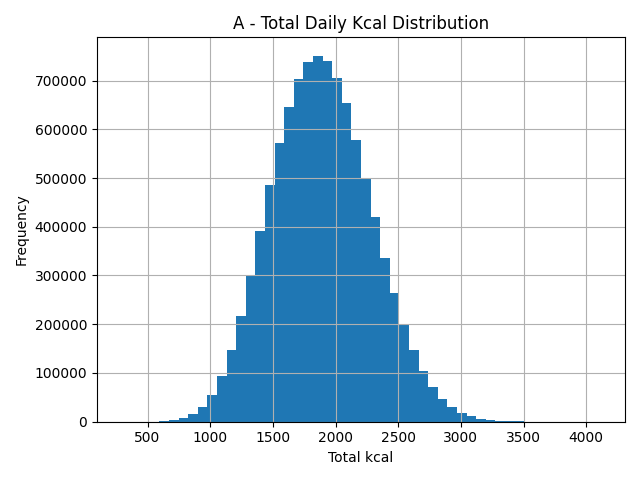
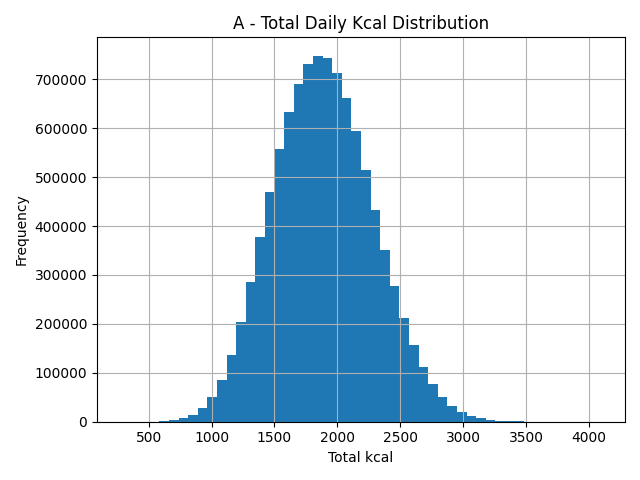
Daily commit

diff --git a/backend/app/management/commands/vasilis_vu_v1.py b/backend/app/management/commands/vasilis_vu_v1.py
@@ -24,7 +24,7 @@ class Command(BaseCommand):
 
     def _filtering(self, country):
         meals = Meal.objects.filter(Country__in=country).values_list(
-            "Type", "Total_Energy", "Total_Protein", "Total_Fat", "Total_Carbs",
+            "Type", "Total_Energy", "Total_Protein", "Total_Fat", "Total_Carbs", "id"
         )
 
         dtype = np.dtype([
@@ -33,6 +33,7 @@ class Command(BaseCommand):
             ('Total_Protein', 'f4'),
             ('Total_Fat', 'f4'),
             ('Total_Carbs', 'f4'),
+            ('id', 'i4'),
         ])
         return np.array(list(meals), dtype=dtype)
 
@@ -44,15 +45,9 @@ class Command(BaseCommand):
 
         return [breakfast, snack, lunch, snack, dinner]
 
-    def normal_distr(self):
-        # Set the mean and standard deviation for calories
-        mean = 1700
-        std = 1000/3
-
-        # Generate random calories for each user
-        calories = np.random.normal(loc=mean, scale=std, size=5000)
-
-        return calories
+    def normal_distr(self, mean, std):
+        # Generate and return random calories for each user based in normal distribution.
+        return np.random.normal(loc=mean, scale=std, size=5000)
 
     def _generate_combinations(self, meal_groups):
         group_lens = [len(group) for group in meal_groups]
@@ -133,7 +128,7 @@ class Command(BaseCommand):
 
     def batch_distance(self, score_matrix):
         # Vectorized weighted Euclidean distance
-        weights = np.array([self.NUTRITION_WEIGHTS.get(f, 0.0) for f in field_list], dtype=np.float32)
+        weights = np.array([NUTRITION_WEIGHTS.get(f, 0.0) for f in field_list], dtype=np.float32)
         weighted_squared = (score_matrix ** 2) * weights  # shape: (n_samples, n_fields)
         dnps = np.sqrt(np.sum(weighted_squared, axis=1))
         ndnps = dnps / (dnps + 1.0)
@@ -145,20 +140,21 @@ class Command(BaseCommand):
         # Format float printing, skip strings
         np.set_printoptions(suppress=True, formatter={'float_kind': lambda x: f'{x:.6f}'})
 
-        for country in [["Ireland"], ["Spain"], ["Hungary"]]:
+        sets = [ [["Ireland"], 1527.35, 295.50], [["Spain"], 2387.32, 326.63], [["Hungary"], 1625.09, 281.10] ]
+        for country, mean, std in sets:
             meals = self._filtering(country)
             #print(meals)
 
             meal_groups = self._get_five_meals(meals)
-            #print(meals[0], meals[1], meals[2], meals[3], meals[4])
+            if not all([len(meal_groups[0]), len(meal_groups[1]), len(meal_groups[2]), len(meal_groups[3]), len(meal_groups[4])]):
+                print(f'Error with meals for countr {country}')
+                continue
 
-            for user_kcal in self.normal_distr():
-                print(user_kcal)
-                quit()
+            for aa, user_kcal in enumerate(self.normal_distr(mean, std)):
                 combos = self._generate_combinations(meal_groups)
                 #print(len(combos))
                 #print(combos[0])
-
+                #quit()
                 daily_totals, field_list = self.batch_calculate_nutrition(combos)
                 #print(daily_totals)
                 #print(field_list)
@@ -166,9 +162,41 @@ class Command(BaseCommand):
                 score_matrix = self.batch_score(daily_totals, user_kcal)
                 dnps, ndnps = self.batch_distance(score_matrix)
 
-                print(score_matrix)
-                print(dnps)
-                print(ndnps)
+                top_k = 1000
+                top_indices = np.argsort(ndnps)[:top_k]
+                selected_indices = np.random.choice(top_indices, min(21, len(top_indices)), replace=False)
+
+                final_plans = []
+                for i in selected_indices:
+                    nutrition_dict = {field_list[j]: daily_totals[i, j] for j in range(len(field_list))}
+
+                    final_plans.append({
+                        "meal_ids": [combo_meal['id'] for combo_meal in combos[i]],
+                        "idx": i,
+                        "DNPS": dnps[i],
+                        "NDNPS": ndnps[i],
+                        "nutrition": nutrition_dict
+                    })
+
+                final_plans.sort(key=lambda x: x['NDNPS'])
+                print(f'Base: Total_Energy: {user_kcal}, Total_Protein: {(user_kcal*0.15/4, user_kcal*0.25/4)} Total_Fat: {(user_kcal*0.2/9, user_kcal*0.35/9)}, Total_Carbs: {(user_kcal*0.45/4, user_kcal*0.6/4)}')
+                print(final_plans[0])
+
+                combo_indices = self._weekly_combinations_indices()
+                weekly_totals = self._batch_weekly_nutrition(combo_indices)
+
+                # Filter by blv_s > 1
+                blv_idx = self.fields.index('blv_s')
+                valid_mask = weekly_totals[:, blv_idx] <= 1
+                weekly_totals = weekly_totals[valid_mask]
+                filtered_combo_indices = [combo_indices[i] for i, keep in enumerate(valid_mask) if keep]
+
+                # Score
+                score_matrix = self.batch_score(weekly_totals)
+                dnps, ndnps = self.batch_distance(score_matrix)
+
+                # Sort & return top
+                return self._assemble_plans(filtered_combo_indices, weekly_totals, dnps, ndnps)
 
                 quit()
 
